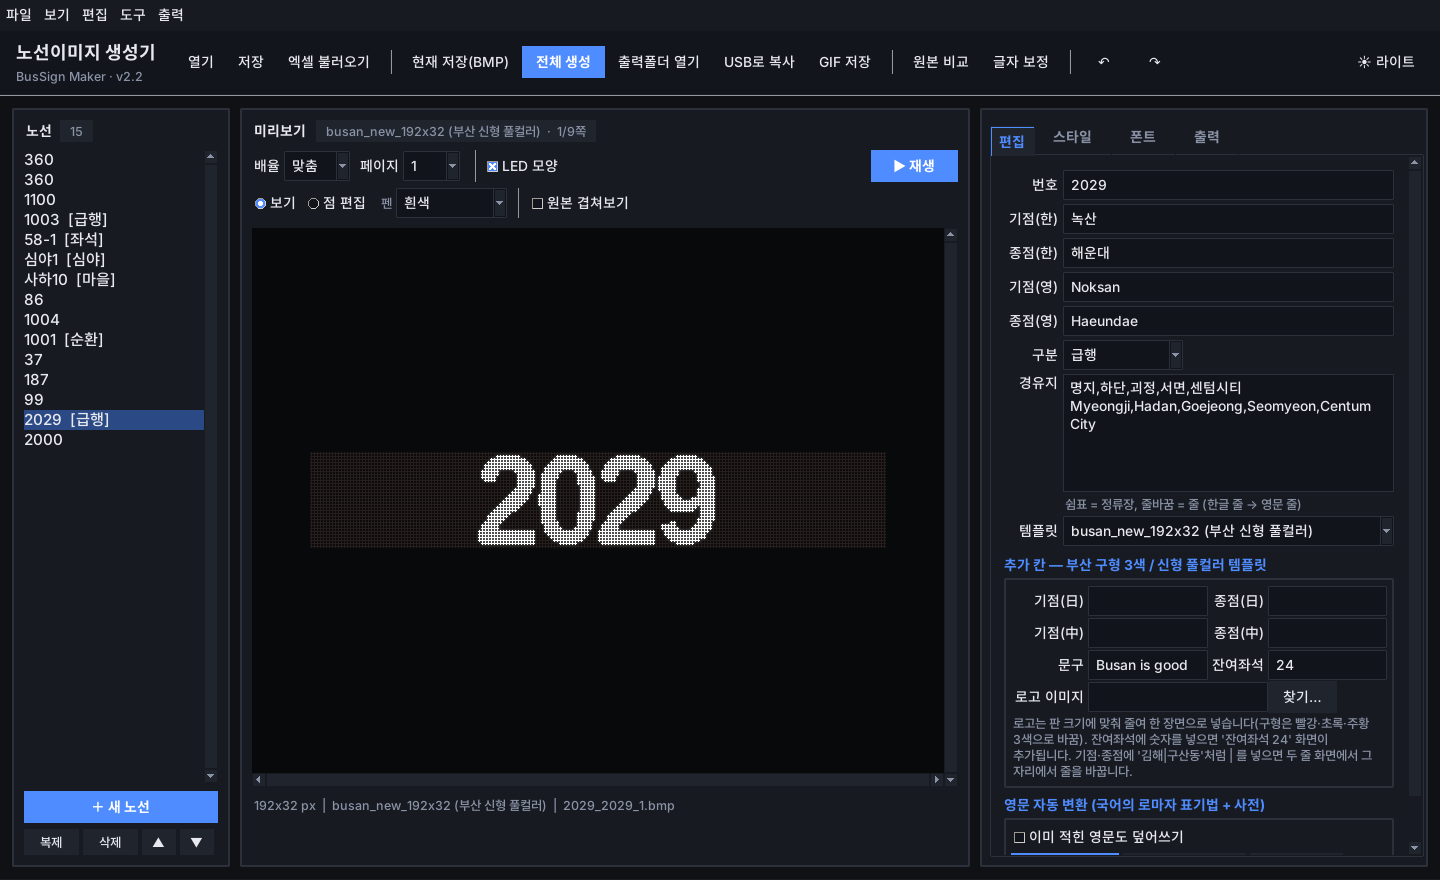
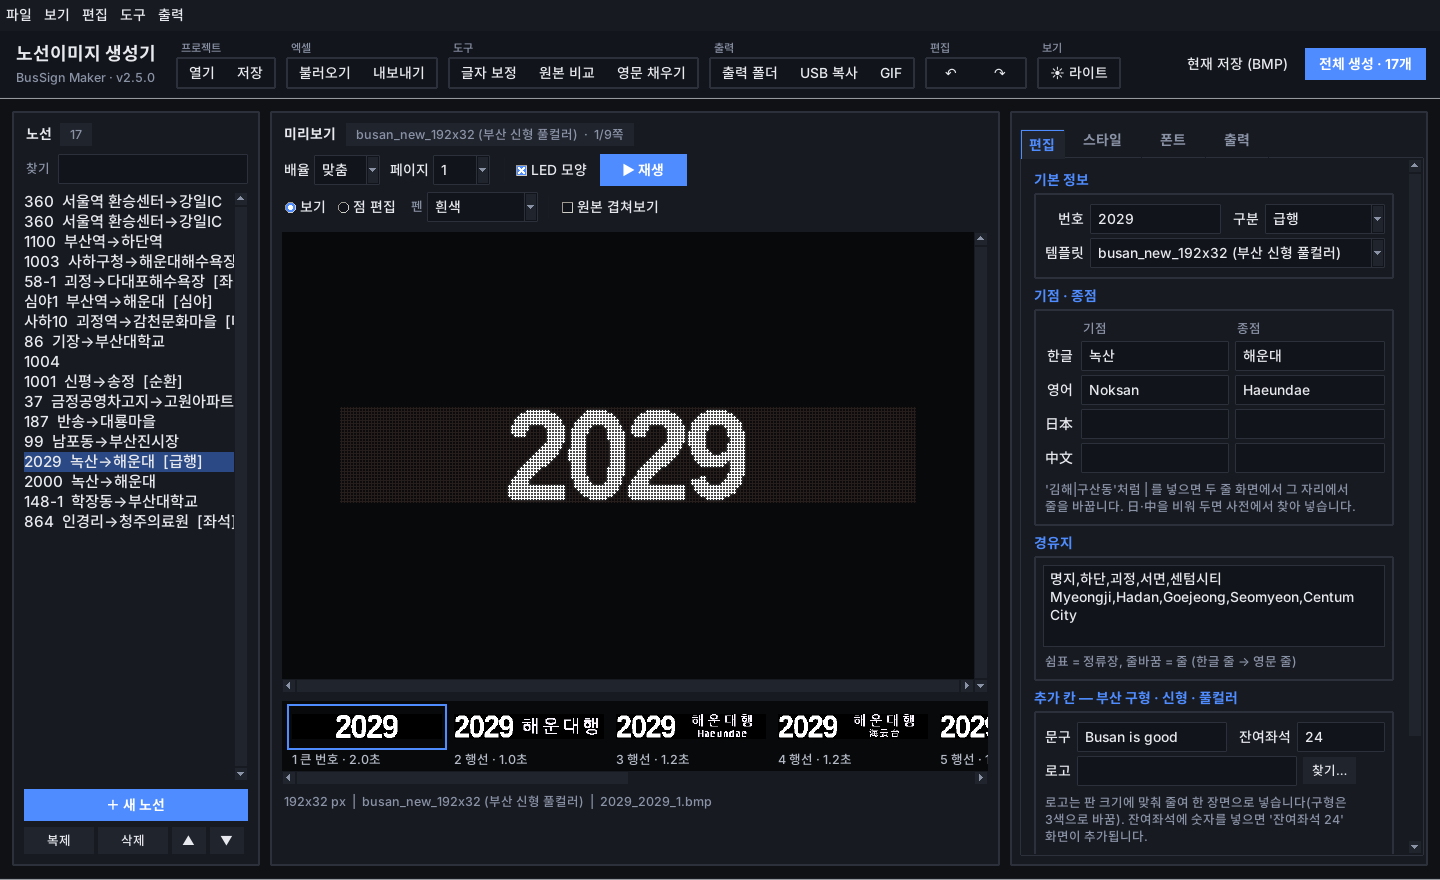
v2.5.0: 화면 개편 (묶음 툴바 · 노선 찾기 · 편집 칸 묶음 · 쪽 썸네일 줄)
- 위쪽 버튼을 프로젝트·엑셀·도구·출력·편집·보기 묶음으로, 현재 저장·전체 생성(노선 수)은 오른쪽 끝에
- 노선 목록에 번호 + 기점→종점 + 구분 표시, 찾기 칸(번호·지명·영문·경유지, 엔터 = 다음)
- 편집 칸을 기본 정보 · 기점/종점(한·영·日·中) · 경유지 · 추가 칸 · 영문 자동 변환 묶음으로
- 미리보기 아래 쪽 썸네일 줄: 쪽 종류·표시 시간, 누르면 그 쪽으로
- 작은 창(1100×680)에서도 썸네일 줄·정보가 잘리지 않게 배치 순서 조정

Changed region(s): [[0.0, 0.0307, 1.0, 1.0], [0.8125, 0.0307, 1.0, 0.092]]

diff --git a/bus_sign_maker.py b/bus_sign_maker.py
@@ -16,7 +16,7 @@ from pathlib import Path
 
 from PIL import Image, ImageDraw, ImageFont
 
-APP_VERSION = "2.4.0 (2026-11-25)"
+APP_VERSION = "2.5.0 (2026-11-26)"
 APP_DIR = Path.home() / "BusSignMaker"
 OUT_DIR = APP_DIR / "output"
 PRESET_FILE = APP_DIR / "presets.json"
@@ -2940,6 +2940,13 @@ def setup_theme(root, name, ttk):
                  lightcolor=P["accent"], darkcolor=P["accent"], padding=(12, 5), font=F["bold"], focuscolor=P["accent"], width=0)
     st.map("ToolAccent.TButton", background=[("active", P["accent_hi"])], foreground=[("active", P["on_accent"])])
     st.configure("Small.TButton", padding=(7, 3), font=F["small"], width=0)
+    # 묶음 툴바 (프로젝트 · 엑셀 · 도구 · 출력 · 편집): 작은 제목 + 테두리 안의 버튼 줄
+    st.configure("GroupCap.TLabel", background=P["header"], foreground=P["muted"], font=(fam, size - 2))
+    st.configure("Seg.TFrame", background=P["input"], bordercolor=P["border"], relief="solid", borderwidth=1)
+    st.configure("Seg.TButton", background=P["input"], foreground=P["text"], bordercolor=P["input"],
+                 lightcolor=P["input"], darkcolor=P["input"], padding=(8, 3), focuscolor=P["input"], width=0)
+    st.map("Seg.TButton", background=[("pressed", P["border"]), ("active", P["surface2"])],
+           bordercolor=[("active", P["surface2"])])
     # 입력 칸
     for w in ("TEntry", "TCombobox", "TSpinbox"):
         st.configure(w, fieldbackground=P["input"], foreground=P["text"], bordercolor=P["border"],
@@ -3100,6 +3107,9 @@ def run_gui():
     brand.pack(side="left", padx=(0, 18))
     ttk.Label(brand, text="노선이미지 생성기", style="Brand.TLabel").pack(anchor="w")
     ttk.Label(brand, text=f"BusSign Maker · v{APP_VERSION.split()[0]}", style="BrandSub.TLabel").pack(anchor="w")
+    acts = ttk.Frame(header, style="Header.TFrame")       # 오른쪽 끝: 현재 저장 · 전체 생성 (항상 보이게 먼저 배치)
+    acts.pack(side="right", padx=(10, 0))
+    gen_text = tk.StringVar(value="전체 생성")
     bar = ttk.Frame(header, style="Header.TFrame")
     bar.pack(side="left", fill="both", expand=True)
     ttk.Separator(root, orient="horizontal").pack(fill="x")
@@ -3120,9 +3130,15 @@ def run_gui():
     ttk.Label(lhead, text="노선", style="Section.TLabel").pack(side="left")
     lcount = ttk.Label(lhead, text="0", style="Badge.TLabel")
     lcount.pack(side="left", padx=6)
+    findf = ttk.Frame(lf)
+    findf.pack(fill="x", pady=(0, 8))
+    ttk.Label(findf, text="찾기", style="Muted.TLabel").pack(side="left", padx=(0, 6))
+    find_var = tk.StringVar()
+    find_e = ttk.Entry(findf, textvariable=find_var, width=10)
+    find_e.pack(side="left", fill="x", expand=True)
     lbf = ttk.Frame(lf)
     lbf.pack(fill="both", expand=True)
-    lb = tk.Listbox(lbf, width=14, exportselection=False)
+    lb = tk.Listbox(lbf, width=21, exportselection=False)
     lb.pack(side="left", fill="both", expand=True)
     sb = ttk.Scrollbar(lbf, command=lb.yview)
     sb.pack(side="left", fill="y")
@@ -3175,46 +3191,63 @@ def run_gui():
     for t_ in (tab_edit, tab_style, tab_font, tab_out):
         t_.columnconfigure(1, weight=1)
 
-    # ── 편집 탭 ──
+    # ── 편집 탭 (묶음별 카드) ──
     vars_ = {}
-    fields = [("no", "번호"), ("start_ko", "기점(한)"), ("end_ko", "종점(한)"),
-              ("start_en", "기점(영)"), ("end_en", "종점(영)")]
-    for i, (k, label) in enumerate(fields):
-        ttk.Label(tab_edit, text=label).grid(row=i, column=0, sticky="e", padx=3, pady=2)
-        v = tk.StringVar()
-        ttk.Entry(tab_edit, textvariable=v, width=30).grid(row=i, column=1, sticky="we", pady=2)
-        vars_[k] = v
-    ttk.Label(tab_edit, text="구분").grid(row=5, column=0, sticky="e", padx=3)
+
+    def edit_box(title, row):
+        f = ttk.LabelFrame(tab_edit, text=title, padding=8)
+        f.grid(row=row, column=0, columnspan=2, sticky="we", pady=(0, 8))
+        return f
+
+    def ent(parent, key, width=12):
+        v = vars_.setdefault(key, tk.StringVar())
+        return ttk.Entry(parent, textvariable=v, width=width)
+
+    bf_ = edit_box("기본 정보", 0)
+    bf_.columnconfigure(1, weight=1)
+    bf_.columnconfigure(3, weight=1)
+    ttk.Label(bf_, text="번호").grid(row=0, column=0, sticky="e", padx=(0, 4), pady=2)
+    ent(bf_, "no", 10).grid(row=0, column=1, sticky="we", pady=2)
+    ttk.Label(bf_, text="구분").grid(row=0, column=2, sticky="e", padx=(10, 4))
     kind_var = tk.StringVar(value="일반")
-    ttk.Combobox(tab_edit, textvariable=kind_var, values=KINDS, state="readonly", width=10).grid(
-        row=5, column=1, sticky="w", pady=2)
-    ttk.Label(tab_edit, text="경유지").grid(row=6, column=0, sticky="ne", padx=3)
-    via_txt = tk.Text(tab_edit, width=30, height=6, wrap="word", undo=False)
-    via_txt.grid(row=6, column=1, sticky="we", pady=2)
-    ttk.Label(tab_edit, text="쉼표 = 정류장, 줄바꿈 = 줄 (한글 줄 → 영문 줄)", style="Muted.TLabel").grid(
-        row=7, column=1, sticky="w")
-    ttk.Label(tab_edit, text="템플릿").grid(row=8, column=0, sticky="e", padx=3)
+    ttk.Combobox(bf_, textvariable=kind_var, values=KINDS, state="readonly", width=7).grid(
+        row=0, column=3, sticky="we", pady=2)
+    ttk.Label(bf_, text="템플릿").grid(row=1, column=0, sticky="e", padx=(0, 4))
     tpl_var = tk.StringVar(value="jinmyeong_front_192x160")
-    tpl_cb = ttk.Combobox(tab_edit, textvariable=tpl_var, values=all_template_names(), state="readonly", width=30)
-    tpl_cb.grid(row=8, column=1, sticky="we", pady=2)
-    xf = ttk.LabelFrame(tab_edit, text="추가 칸 — 부산 구형 3색 / 신형 풀컬러 템플릿", padding=6)
-    xf.grid(row=9, column=0, columnspan=2, sticky="we", pady=(8, 0))
+    tpl_cb = ttk.Combobox(bf_, textvariable=tpl_var, values=all_template_names(), state="readonly", width=28)
+    tpl_cb.grid(row=1, column=1, columnspan=3, sticky="we", pady=2)
+
+    sef = edit_box("기점 · 종점", 1)
+    sef.columnconfigure(1, weight=1)
+    sef.columnconfigure(2, weight=1)
+    ttk.Label(sef, text="기점", style="Muted.TLabel").grid(row=0, column=1, sticky="w")
+    ttk.Label(sef, text="종점", style="Muted.TLabel").grid(row=0, column=2, sticky="w", padx=(6, 0))
+    for i, (lang, a_, b_) in enumerate([("한글", "start_ko", "end_ko"), ("영어", "start_en", "end_en"),
+                                        ("日本", "start_ja", "end_ja"), ("中文", "start_zh", "end_zh")]):
+        ttk.Label(sef, text=lang).grid(row=i + 1, column=0, sticky="e", padx=(0, 6), pady=2)
+        ent(sef, a_).grid(row=i + 1, column=1, sticky="we", pady=2)
+        ent(sef, b_).grid(row=i + 1, column=2, sticky="we", pady=2, padx=(6, 0))
+    ttk.Label(sef, text="'김해|구산동'처럼 | 를 넣으면 두 줄 화면에서 그 자리에서 줄을 바꿉니다. "
+                        "日·中을 비워 두면 사전에서 찾아 넣습니다.",
+              style="Muted.TLabel", wraplength=320, justify="left").grid(row=5, column=0, columnspan=3, sticky="w",
+                                                                        pady=(4, 0))
+
+    vf_ = edit_box("경유지", 2)
+    vf_.columnconfigure(0, weight=1)
+    via_txt = tk.Text(vf_, width=30, height=4, wrap="word", undo=False)
+    via_txt.grid(row=0, column=0, sticky="we")
+    ttk.Label(vf_, text="쉼표 = 정류장, 줄바꿈 = 줄 (한글 줄 → 영문 줄)", style="Muted.TLabel").grid(
+        row=1, column=0, sticky="w", pady=(4, 0))
+
+    xf = edit_box("추가 칸 — 부산 구형 · 신형 · 풀컬러", 3)
     xf.columnconfigure(1, weight=1)
     xf.columnconfigure(3, weight=1)
-    for i, (k, label) in enumerate(EXTRA_FIELDS):
-        ttk.Label(xf, text=label).grid(row=i // 2, column=(i % 2) * 2, sticky="e", padx=2, pady=1)
-        v = tk.StringVar()
-        ttk.Entry(xf, textvariable=v, width=13).grid(row=i // 2, column=(i % 2) * 2 + 1, sticky="we", pady=1)
-        vars_[k] = v
-    ttk.Label(xf, text="문구").grid(row=2, column=0, sticky="e", padx=2)
-    vars_["slogan"] = tk.StringVar()
-    ttk.Entry(xf, textvariable=vars_["slogan"], width=13).grid(row=2, column=1, sticky="we", pady=1)
-    ttk.Label(xf, text="잔여좌석").grid(row=2, column=2, sticky="e", padx=2)
-    vars_["seats"] = tk.StringVar()
-    ttk.Entry(xf, textvariable=vars_["seats"], width=13).grid(row=2, column=3, sticky="we", pady=1)
-    ttk.Label(xf, text="로고 이미지").grid(row=3, column=0, sticky="e", padx=2)
-    vars_["logo"] = tk.StringVar()
-    ttk.Entry(xf, textvariable=vars_["logo"], width=13).grid(row=3, column=1, columnspan=2, sticky="we", pady=1)
+    ttk.Label(xf, text="문구").grid(row=0, column=0, sticky="e", padx=(0, 4), pady=2)
+    ent(xf, "slogan").grid(row=0, column=1, sticky="we", pady=2)
+    ttk.Label(xf, text="잔여좌석").grid(row=0, column=2, sticky="e", padx=(10, 4))
+    ent(xf, "seats", 5).grid(row=0, column=3, sticky="we", pady=2)
+    ttk.Label(xf, text="로고").grid(row=1, column=0, sticky="e", padx=(0, 4))
+    ent(xf, "logo").grid(row=1, column=1, columnspan=2, sticky="we", pady=2)
 
     def pick_logo():
         p = filedialog.askopenfilename(title="로고 이미지 (PNG·BMP·JPG)",
@@ -3222,13 +3255,12 @@ def run_gui():
         if p:
             vars_["logo"].set(p)
 
-    ttk.Button(xf, text="찾기…", width=5, command=pick_logo).grid(row=3, column=3, sticky="w")
-    ttk.Label(xf, text="로고는 판 크기에 맞춰 줄여 한 장면으로 넣습니다(구형은 빨강·초록·주황 3색으로 바꿈). "
-                       "잔여좌석에 숫자를 넣으면 '잔여좌석 24' 화면이 추가됩니다. "
-                       "기점·종점에 '김해|구산동'처럼 | 를 넣으면 두 줄 화면에서 그 자리에서 줄을 바꿉니다.",
-              style="Muted.TLabel", wraplength=310, justify="left").grid(row=4, column=0, columnspan=4, sticky="w")
-    rom_frame = ttk.LabelFrame(tab_edit, text="영문 자동 변환 (국어의 로마자 표기법 + 사전)", padding=6)
-    rom_frame.grid(row=10, column=0, columnspan=2, sticky="we", pady=(8, 0))
+    ttk.Button(xf, text="찾기…", style="Small.TButton", command=pick_logo).grid(row=1, column=3, sticky="w", padx=(6, 0))
+    ttk.Label(xf, text="로고는 판 크기에 맞춰 줄여 한 장면으로 넣습니다(구형은 3색으로 바꿈). "
+                       "잔여좌석에 숫자를 넣으면 '잔여좌석 24' 화면이 추가됩니다.",
+              style="Muted.TLabel", wraplength=320, justify="left").grid(row=2, column=0, columnspan=4, sticky="w",
+                                                                        pady=(4, 0))
+    rom_frame = edit_box("영문 자동 변환 (국어의 로마자 표기법 + 사전)", 4)
     rom_over = tk.BooleanVar(value=False)
     ttk.Checkbutton(rom_frame, text="이미 적힌 영문도 덮어쓰기", variable=rom_over).pack(anchor="w")
     rf2 = ttk.Frame(rom_frame)
@@ -3384,14 +3416,78 @@ def run_gui():
     hsb.pack(side="bottom", fill="x")
     canvas.pack(side="left", fill="both", expand=True)
     img_item = canvas.create_image(0, 0, anchor="nw")
+    # 쪽 썸네일 줄: 모든 쪽을 작게 늘어놓고, 누르면 그 쪽으로 이동 (쪽 종류 · 표시 시간 표시)
+    STRIP_H, THUMB_H, THUMB_W = 70, 36, 150
+    strip_wrap = ttk.Frame(pv)
+    strip_wrap.pack(fill="x", pady=(8, 0))
+    strip = tk.Canvas(strip_wrap, height=STRIP_H, highlightthickness=0, background=PAL["canvas"])
+    strip_sb = ttk.Scrollbar(strip_wrap, orient="horizontal", command=strip.xview)
+    strip.configure(xscrollcommand=strip_sb.set)
+    strip.pack(fill="x")
+    strip_sb.pack(fill="x")
+    PAGE_KIND_LABEL = {"big": "큰 번호", "route": "행선", "via": "경유지", "seats": "잔여좌석", "slogan": "문구",
+                       "logo": "로고"}
+    S["strip_key"], S["thumbs"], S["thumb_boxes"] = None, [], []
+
+    def draw_strip():
+        import hashlib
+        pages = S.get("pages") or []
+        key = (tuple(hashlib.md5(p.tobytes()).hexdigest() for p in pages), bool(led_var.get()), PAL["canvas"])
+        if S["strip_key"] != key:
+            S["strip_key"] = key
+            strip.delete("all")
+            S["thumbs"], S["thumb_boxes"] = [], []
+            x = 10
+            for i, p in enumerate(pages):
+                pr = p.convert("RGB")
+                sc = min(THUMB_H / pr.height, THUMB_W / pr.width)
+                tw, th = max(1, round(pr.width * sc)), max(1, round(pr.height * sc))
+                if led_var.get() and sc >= 0.9:
+                    im = led_look(pr, max(2, int(sc) + 1)).resize((tw, th), Image.LANCZOS)
+                else:
+                    im = pr.resize((tw, th), Image.NEAREST if sc >= 1 else Image.BOX)
+                ph = ImageTk.PhotoImage(im)
+                S["thumbs"].append(ph)
+                tag = f"pg{i}"
+                y0 = 8 + (THUMB_H - th) // 2
+                strip.create_image(x, y0, anchor="nw", image=ph, tags=(tag,))
+                kind = PAGE_KIND_LABEL.get(p.info.get("page_kind"), "")
+                dur = p.info.get("duration")
+                cap = f"{i + 1} {kind}".strip() + (f" · {dur / 1000:.1f}초" if dur and len(pages) > 1 else "")
+                strip.create_text(x, 8 + THUMB_H + 6, anchor="nw", text=cap, fill="#b4bac6", font=FON["small"],
+                                  tags=(tag,))
+                S["thumb_boxes"].append((x - 4, 4, x + tw + 4, 8 + THUMB_H + 4))
+                strip.tag_bind(tag, "<Button-1>", lambda e, i=i: page_var.set(str(i + 1)))
+                x += max(tw, 88) + 12
+            strip.configure(scrollregion=(0, 0, x, STRIP_H))
+        strip.delete("sel")
+        boxes = S["thumb_boxes"]
+        if boxes and 0 <= S["page"] < len(boxes):
+            bx = boxes[S["page"]]
+            strip.create_rectangle(*bx, outline=PAL["accent"], width=2, tags=("sel",))
+            total = max(1, boxes[-1][2] + 16)
+            vw = max(1, strip.winfo_width())
+            left, right = strip.canvasx(0), strip.canvasx(vw)
+            if bx[0] < left or bx[2] > right:              # 고른 쪽이 보이도록 줄을 넘김
+                strip.xview_moveto(max(0.0, (bx[0] - 20) / total))
+
     info = tk.StringVar()
     warn_var = tk.StringVar()
-    ttk.Label(pv, textvariable=info, style="Muted.TLabel").pack(anchor="w", pady=(8, 0))
+    info_lbl = ttk.Label(pv, textvariable=info, style="Muted.TLabel")
+    info_lbl.pack(anchor="w", pady=(8, 0))
     warn_lbl = ttk.Label(pv, textvariable=warn_var, style="Warn.TLabel", wraplength=760, justify="left")
     warn_lbl.pack(anchor="w")
     pv.bind("<Configure>", lambda e: warn_lbl.configure(wraplength=max(200, e.width - 30)), add="+")
     legend = ttk.Label(pv, text="", style="Muted.TLabel")
     legend.pack(anchor="w")
+    # 아래쪽 줄(썸네일·정보·경고)을 먼저 아래에서부터 배치 → 작은 창에서도 잘리지 않고, 남는 높이는 미리보기 칸이 씀
+    for w_ in (cwrap, strip_wrap, info_lbl, warn_lbl, legend):
+        w_.pack_forget()
+    legend.pack(side="bottom", anchor="w")
+    warn_lbl.pack(side="bottom", anchor="w")
+    info_lbl.pack(side="bottom", anchor="w", pady=(6, 0))
+    strip_wrap.pack(side="bottom", fill="x", pady=(8, 0))
+    cwrap.pack(side="top", fill="both", expand=True, pady=(10, 0))
 
     def zoom_now(img_w=192, img_h=160):
         v = zoom_var.get()
@@ -3437,11 +3533,15 @@ def run_gui():
 
     def label_of(r):
         k = r.get("kind")
-        return (r.get("no") or "(새 노선)") + (f"  [{k}]" if k and k != "일반" else "")
+        s_ = (r.get("start_ko") or "").replace("|", "").strip()
+        e_ = (r.get("end_ko") or "").replace("|", "").strip()
+        path = f"{s_}→{e_}" if s_ and e_ else (e_ or s_)
+        return (r.get("no") or "(새 노선)") + (f"  {path}" if path else "") + (f"  [{k}]" if k and k != "일반" else "")
 
     def refill_list(keep=None):
         lcount.config(text=str(len(S["routes"])))
         count_var.set(f"노선 {len(S['routes'])}개")
+        gen_text.set(f"전체 생성 · {len(S['routes'])}개" if S["routes"] else "전체 생성")
         lb.delete(0, "end")
         for r in S["routes"]:
             lb.insert("end", label_of(r))
@@ -3540,6 +3640,8 @@ def run_gui():
         if r is None:
             canvas.itemconfig(img_item, image="")
             info.set("노선이 없습니다. [새 노선] 또는 엑셀/프로젝트를 불러오세요.")
+            S["pages"] = []
+            draw_strip()
             return
         try:
             pages = render_current()
@@ -3587,6 +3689,7 @@ def run_gui():
         names = file_names(r, n, settings.get("name_pattern"))
         info.set(f"{img.width}x{img.height} px  |  {r.get('template')}  |  {names[S['page']]}"
                  f"{'  |  편집한 점 ' + str(len((r.get('edits') or {}).get(str(S['page']), {}))) + '개' if (r.get('edits') or {}).get(str(S['page'])) else ''}{extra}")
+        draw_strip()
         ws = [w for w in S.get("warns", []) if w[1] > 0]
         warn_var.set("⚠ 압축됨: " + " / ".join(f"{t} ({ratio * 100:.0f}%)" for t, ratio in ws) if ws else "")
 
@@ -3770,6 +3873,29 @@ def run_gui():
         refill_list(i + d)
         commit()
 
+    def find_route(step=0):
+        """번호·지명(한글/영문)으로 노선 찾기. 엔터 = 다음 것"""
+        q = find_var.get().strip().lower()
+        if not q or not S["routes"]:
+            return
+        n = len(S["routes"])
+        start = ((S["sel"] or 0) + step) % n
+        for k in range(n):
+            i = (start + k) % n
+            r = S["routes"][i]
+            hay = " ".join([label_of(r), r.get("start_en", ""), r.get("end_en", ""), r.get("via", "")]).lower()
+            if q in hay:
+                if i != S["sel"]:
+                    if S["commit_job"]:
+                        root.after_cancel(S["commit_job"]); commit()
+                    refill_list(i)
+                    load_form(i)
+                status.set(f"찾음: {label_of(r)}  (엔터 = 다음)")
+                return
+        status.set(f"'{find_var.get().strip()}' 노선을 찾지 못했습니다")
+
+    find_var.trace_add("write", lambda *_: find_route(0))
+    find_e.bind("<Return>", lambda e: find_route(1))
     ttk.Button(lbtn, text="＋ 새 노선", style="Accent.TButton", command=new_route).pack(fill="x", pady=(0, 6))
     lrow = ttk.Frame(lbtn)
     lrow.pack(fill="x")
@@ -4267,28 +4393,38 @@ def run_gui():
     menubar.add_cascade(label="출력", menu=m_out)
     root.config(menu=menubar)
 
-    def tool_group(items, last=False):
-        for text, cmd, sty in items:
-            ttk.Button(bar, text=text, command=cmd, style=sty,
+    def tool_group(title, items):
+        """작은 제목 + 테두리 안 버튼 줄. 좁은 창에서는 flow_layout 이 묶음째 다음 줄로 넘김"""
+        g_ = ttk.Frame(bar, style="Header.TFrame")
+        ttk.Label(g_, text=title, style="GroupCap.TLabel").pack(anchor="w", padx=(3, 0))
+        row_ = ttk.Frame(g_, style="Seg.TFrame", padding=2)
+        row_.pack(anchor="w")
+        for text, cmd in items:
+            ttk.Button(row_, text=text, command=cmd, style="Seg.TButton",
                        width=3 if len(text) == 1 else None).pack(side="left", padx=1)
-        if not last:
-            ttk.Separator(bar, orient="vertical").pack(side="left", fill="y", padx=8, pady=4)
+        g_.pack(side="left", padx=(0, 10))
+        return row_
 
-    T, TA = "Tool.TButton", "ToolAccent.TButton"
-    tool_group([("열기", open_project, T), ("저장", save_project_cmd, T), ("엑셀 불러오기", load_xl, T)])
-    tool_group([("현재 저장(BMP)", save_current, T), ("전체 생성", save_all, TA),
-                ("출력폴더 열기", lambda: open_folder(out_dir()), T), ("USB로 복사", copy_usb, T),
-                ("GIF 저장", save_gif_cmd, T)])
-    tool_group([("원본 비교", load_compare, T), ("글자 보정", glyph_editor, T)])
-    tool_group([("↶", undo, T), ("↷", redo, T)], last=True)
+    tool_group("프로젝트", [("열기", open_project), ("저장", save_project_cmd)])
+    tool_group("엑셀", [("불러오기", load_xl), ("내보내기", export_xl)])
+    tool_group("도구", [("글자 보정", glyph_editor), ("원본 비교", load_compare), ("영문 채우기", romanize_current)])
+    tool_group("출력", [("출력 폴더", lambda: open_folder(out_dir())), ("USB 복사", copy_usb), ("GIF", save_gif_cmd)])
+    tool_group("편집", [("↶", undo), ("↷", redo)])
+    view_row = tool_group("보기", [])
+    ttk.Button(acts, text="현재 저장 (BMP)", command=save_current, style="Tool.TButton").pack(side="left", padx=(0, 6))
+    gen_btn = ttk.Button(acts, textvariable=gen_text, command=save_all, style="ToolAccent.TButton")
+    gen_btn.pack(side="left")
+    gen_text.set(f"전체 생성 · {len(S['routes'])}개" if S["routes"] else "전체 생성")
 
     def apply_theme(*_):
         nonlocal PAL, FON
         PAL, FON = setup_theme(root, theme_var.get(), ttk)
-        recolor_tk(root, PAL, FON, keep=(canvas,))
+        recolor_tk(root, PAL, FON, keep=(canvas, strip))
         for c_ in scrollers:
             c_.configure(background=PAL["surface"])
         canvas.configure(background=PAL["canvas"])
+        strip.configure(background=PAL["canvas"])
+        draw_strip()
         theme_btn.config(text="☀ 라이트" if theme_var.get() == "다크" else "☾ 다크")
         settings["theme"] = theme_var.get()
         try:
@@ -4296,10 +4432,9 @@ def run_gui():
         except Exception:
             pass
 
-    ttk.Separator(bar, orient="vertical").pack(side="left", fill="y", padx=8, pady=4)
-    theme_btn = ttk.Button(bar, text="☀ 라이트", style="Tool.TButton", width=8,
+    theme_btn = ttk.Button(view_row, text="☀ 라이트", style="Seg.TButton",
                            command=lambda: theme_var.set("라이트" if theme_var.get() == "다크" else "다크"))
-    theme_btn.pack(side="left")
+    theme_btn.pack(side="left", padx=1)
     flow_layout(bar)
     theme_var.trace_add("write", apply_theme)
     m_view = tk.Menu(menubar, tearoff=0)

diff --git a/README.md b/README.md
@@ -27,7 +27,11 @@
 
 ## 주요 기능
 
-- **새 화면 (v2.3)**: 왼쪽 노선 목록 · 가운데 큰 LED 미리보기 · 오른쪽 편집 패널로 다시 배치했고, **다크/라이트 테마**를 오른쪽 위 버튼이나 `보기` 메뉴에서 바꿀 수 있습니다(설정에 저장). 기능은 v2.2와 같습니다.
+- **새 화면 (v2.5)**: 왼쪽 노선 목록 · 가운데 큰 LED 미리보기 · 오른쪽 편집 패널 배치에, 다음을 다듬었습니다. **다크/라이트 테마**는 위쪽 `보기` 묶음이나 `보기` 메뉴에서 바꿉니다(설정에 저장).
+  - 위쪽 버튼을 **프로젝트 · 엑셀 · 도구 · 출력 · 편집 · 보기** 묶음으로 나누고, **현재 저장 · 전체 생성(노선 수 표시)** 은 오른쪽 끝에 항상 보이게 했습니다. 창이 좁으면 묶음째 다음 줄로 넘어갑니다.
+  - 노선 목록에 **번호 + 기점→종점 + 구분**이 함께 나오고, 위쪽 **찾기** 칸에 번호·지명(한글/영문/경유지)을 치면 바로 그 노선으로 갑니다(엔터 = 다음).
+  - 편집 칸을 **기본 정보 · 기점/종점(한글·영어·日·中) · 경유지 · 추가 칸 · 영문 자동 변환** 묶음으로 정리했습니다.
+  - 미리보기 아래에 **쪽 썸네일 줄**: 모든 쪽이 작은 LED 그림과 쪽 종류·표시 시간으로 나오고, 누르면 그 쪽으로 갑니다.
 
   ![다크(왼쪽) · 라이트(오른쪽)](docs/images/themes.png)
 - **부산 구형 3색 LED (192×32)**: 실제 부산 시내버스 구형 전광판 영상을 보고 만든 템플릿입니다.
